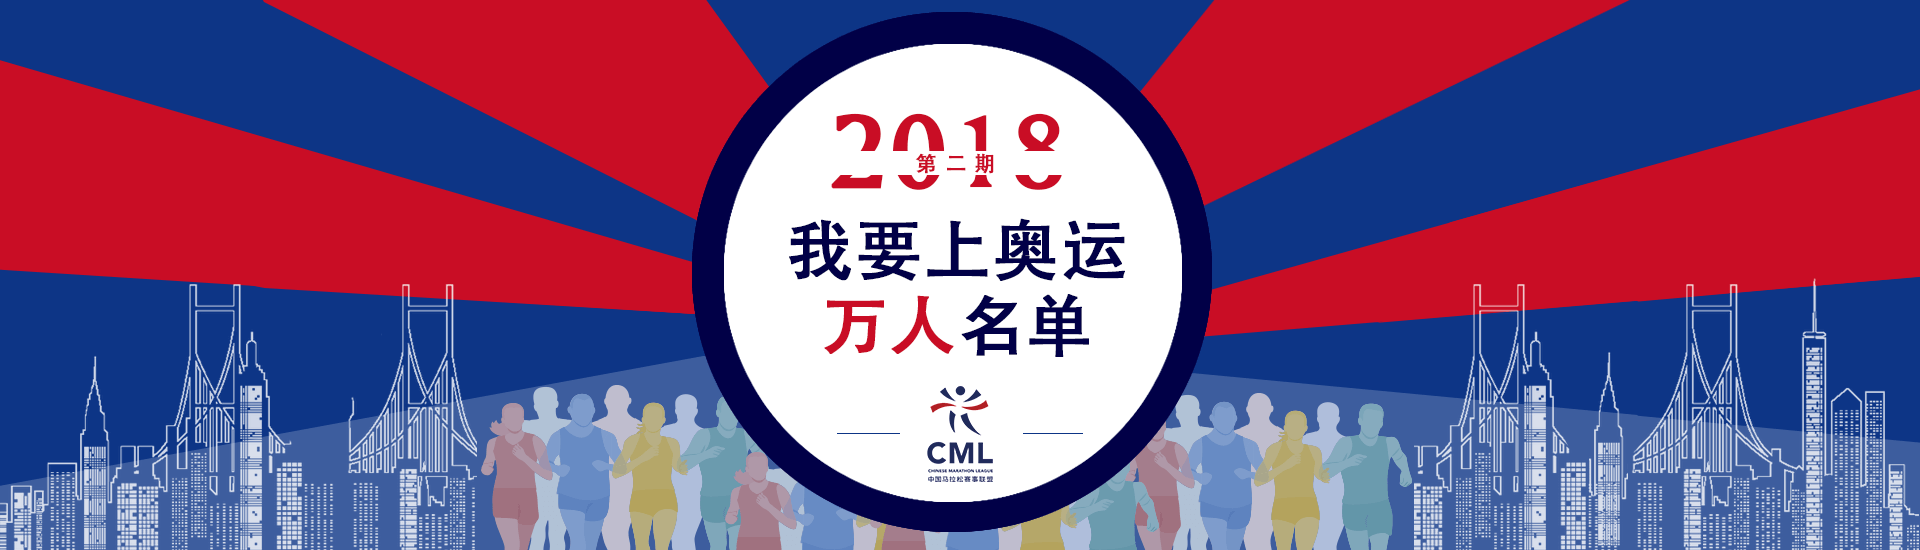
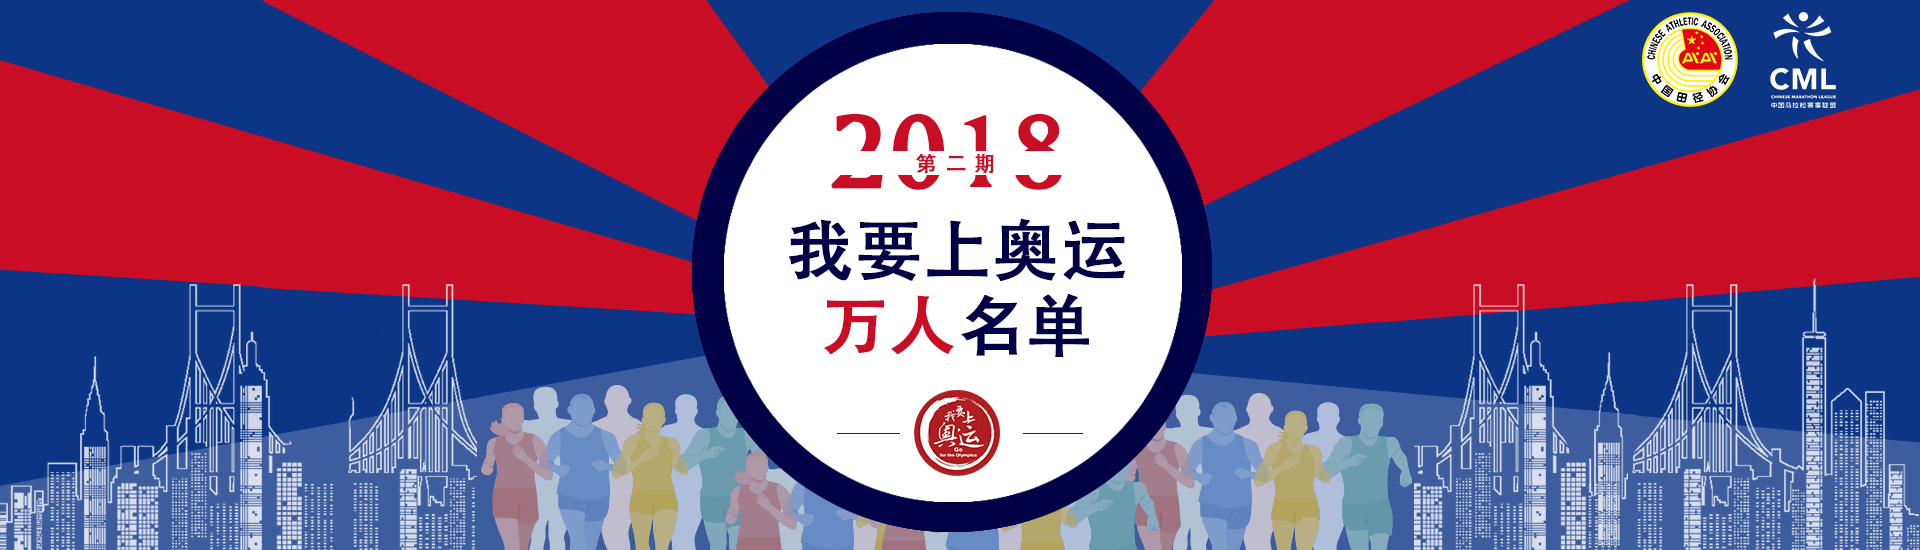
pysc

Changed region(s): [[0.8438, 0.0, 0.9688, 0.2164], [0.4688, 0.7109, 0.5312, 0.8964]]

diff --git a/WebRoot/staticFiles/foot.html b/WebRoot/staticFiles/foot.html
@@ -10,6 +10,7 @@
 			<p>主办单位：中国田径协会 运营机构：上海跑友信息科技有限公司 网站支持：上海跑友信息科技有限公司</p>
 			<p>咨询电话：021-50897802-601 Email：service@caa-paoyou.com</p>
 			<p>Copyright &copy; 2017.中国马拉松赛事联盟. 沪ICP备17004492号-1</p>
+			<p><img src="extra-images\logs/paoyou.png" /></p>
 		</div>
 	</div>
 

diff --git a/WebRoot/css/mainstyle.css b/WebRoot/css/mainstyle.css
@@ -148,7 +148,7 @@ section{
 }
 .logo a img{
 	float: left;
-	width: 200px;
+	width: 240px;
 	position: relative;
 }
 .kode_navigation{
@@ -909,7 +909,7 @@ section{
     border: 1px solid #f8f8f8;
     border-radius: 4px;
     background-color: #e7eaf0;
-    margin: 0 0 70px;
+    margin: 0 0 40px;
     padding: 28px 0;
 }
 .kf_query_ranking .search-info{

diff --git a/WebRoot/staticFiles/head.html b/WebRoot/staticFiles/head.html
@@ -3,8 +3,7 @@
 		<div class="container">
 			<div class="kode_logo_bar">
 				<div class="logo">
-					<a href="#"> <img src="images/CML1.png" alt="">
-					</a>
+					<a href="#"> <img src="extra-images\logs\logo.png" alt=""></a>
 				</div>
 				<div class="kode_navigation">
 					<ul class="nav">
